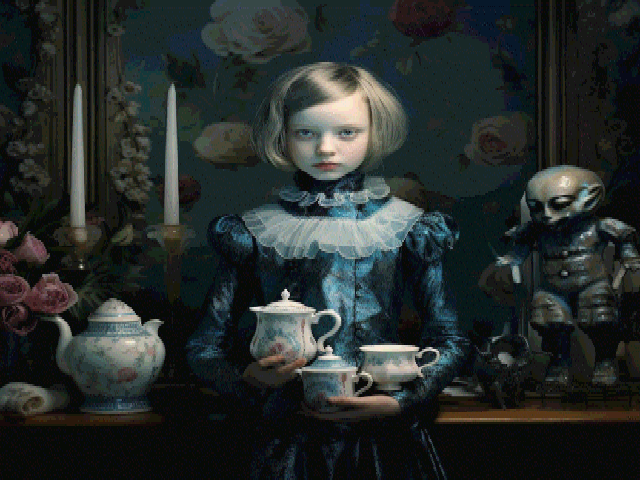
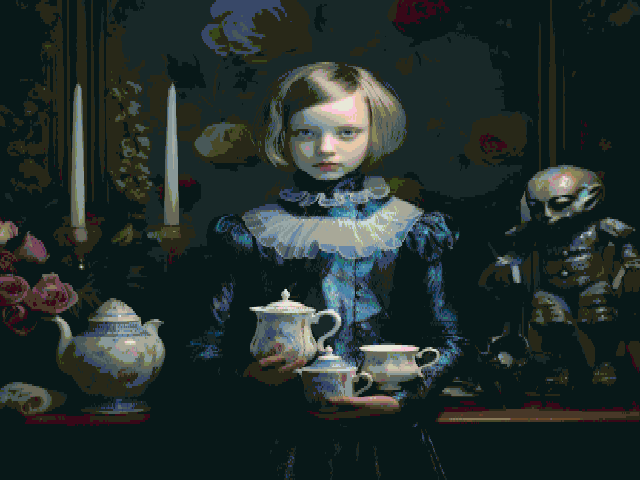
phots-pc: better images for the archie

diff --git a/phots-1st-pc/photos-on-the-1st-pc.html b/phots-1st-pc/photos-on-the-1st-pc.html
@@ -61,7 +61,7 @@ target=_blank><img src=magnifier-20.png><sup>x3</sup></a>
 <p style=font-size:90%>Макинтош II (512x384, 256 цветов) <a href=pgirl-512x384-mac2.html target=_blank><img src=magnifier-20.png><sup>x2</sup></a>
 </div>
 
-<p>В том же году появился <a href=https://ru.wikipedia.org/wiki/Acorn_Archimedes>Acorn Archimedes</a>, который ненадолго сделал Британию да и Европу в целом лидером по техническим инновациям для ПК. Помимо того, что Архимед мог быть до 10 раз быстрее Амиги, он мог ещё и выводить изображения в 256 цветах из 4096-цветовой палитры в растры от 320х256 до 1056х256 на недорогие мониторы. А для дорогих мониторов были доступны режимы с большим числом строк, например, 640х512 и даже 800х600! Видеосистема Архимеда очень быстрая и гибкая и фактически пользователь может создавать новые видеорежимы по своему усмотрению как и на VGA. Но у видеосистемы Архимеда есть один немаленький недостаток: в режиме 256 цветов использование палитры затруднено из-за того, что имеется только 16 регистров палитры вместо 256. Поэтому нельзя выбрать все 256 цветов абсолютно произвольно и часть из выбранных цветов иногда необходимо заменять на похожие. В худших случаях вместо 256 цветов может остаться только 16, в лучших &ndash; все цвета сохраняются. Из-за этого недостатка потеря более двух третей цветов, что оставляет менее 80 свободных цветов, &ndash; это скорее типично.
+<p>В том же году появился <a href=https://ru.wikipedia.org/wiki/Acorn_Archimedes>Acorn Archimedes</a>, который ненадолго сделал Британию да и Европу в целом лидером по техническим инновациям для ПК. Помимо того, что Архимед мог быть до 10 раз быстрее Амиги, он мог ещё и выводить изображения в 256 цветах из 4096-цветовой палитры в растры от 320х256 до 1056х256 на недорогие мониторы. А для дорогих мониторов были доступны режимы с большим числом строк, например, 640х512 и даже 800х600! Видеосистема Архимеда очень быстрая и гибкая и фактически пользователь может создавать новые видеорежимы по своему усмотрению как и на VGA. Но у видеосистемы Архимеда есть один немаленький недостаток: в режиме 256 цветов использование палитры затруднено из-за того, что имеется только 16 регистров палитры вместо 256. Поэтому нельзя выбрать все 256 цветов абсолютно произвольно и часть из выбранных цветов иногда необходимо заменять на похожие. В худших случаях вместо 256 цветов может остаться только 16, в лучших &ndash; все цвета сохраняются. Из-за этого недостатка потеря более двух третей цветов, что оставляет менее 80 свободных цветов, &ndash; это скорее типично. В некоторых демках количество цветов удавалось радикально увеличить, меняя палитру при прорисовке образа, но это требовало сверхточной синхронизации работы видеочипа и процессора через таймер.
 
 <div align=center>
 <p><img src=pgirl-640x256-archie.png>
@@ -164,11 +164,11 @@ target=_blank><img src=magnifier-20.png><sup>x3</sup></a>
 <div style=float:left;padding:8px><img src=pgirl-uni-vga-360.gif>
 <br><span style=font-size:90%>VGA 360x240</span></div>
 <div style=float:left;padding:8px><img src=pgirl-uni-archi-1056.png>
-<br><span style=font-size:90%>Acorn Archimedes 1056x256 (256 цветов)</span></div>
+<br><span style=font-size:90%>Acorn Archimedes 1056x256 (55 цветов)</span></div>
 <div style=float:left;padding:8px><img src=pgirl-uni-archi-800.png>
-<br><span style=font-size:90%>Acorn Archimedes 800x600 (256 цветов)</span></div>
+<br><span style=font-size:90%>Acorn Archimedes 800x600 (58 цветов)</span></div>
 <div style=float:left;padding:8px><img src=pgirl-uni-mac2.png>
-<br><span style=font-size:90%>Macintosh II 512x384 (256 цветов)</span></div>
+<br><span style=font-size:90%>Macintosh II 512x384</span></div>
 <div style=float:left;padding:8px><img src=pgirl-uni-pro3xx.png>
 <br><span style=font-size:90%>DEC Pro 3xx</span></div>
 <div style=float:left;padding:8px><img src=pgirl-uni-cbm264-hr.png>
